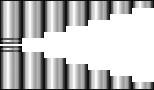
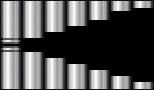
Open and close animations, obj position + scale

diff --git a/ArkanoidReturns/js/Scenes/Level.js b/ArkanoidReturns/js/Scenes/Level.js
@@ -91,6 +91,32 @@ class Level extends Phaser.Scene
     LevelStart() {
         this._levelStartSound.play()
         this.fadein.destroy();
+
+        //TODO: Remove test
+        this.rightOpening0 = new OpeningVerticalPrefab(this, 633, 400, 'openingThingVertical', 'openingThingVerticalOpenAnimation')
+        .setScale(0.71);
+
+        this.rightOpening1 = new OpeningVerticalPrefab(this, 649, 400, 'openingThingVertical', 'openingThingVerticalOpenAnimation')
+        .setScale(0.71);
+
+        this.rightOpening2 = new OpeningVerticalPrefab(this, 665, 400, 'openingThingVertical', 'openingThingVerticalOpenAnimation')
+        .setScale(0.71);
+
+        this.rightOpening3 = new OpeningVerticalPrefab(this, 681, 400, 'openingThingVertical', 'openingThingVerticalOpenAnimation')
+        .setScale(0.71);
+
+        //Close
+        this.rightOpening4 = new OpeningVerticalPrefab(this, 633, 500, 'openingThingVertical', 'openingThingVerticalCloseAnimation')
+        .setScale(0.71);
+
+        this.rightOpening5 = new OpeningVerticalPrefab(this, 649, 500, 'openingThingVertical', 'openingThingVerticalCloseAnimation')
+        .setScale(0.71);
+
+        this.rightOpening6 = new OpeningVerticalPrefab(this, 665, 500, 'openingThingVertical', 'openingThingVerticalCloseAnimation')
+        .setScale(0.71);
+
+        this.rightOpening7 = new OpeningVerticalPrefab(this, 681, 500, 'openingThingVertical', 'openingThingVerticalCloseAnimation')
+        .setScale(0.71);
     }
 
     LoadSounds()
@@ -216,6 +242,15 @@ class Level extends Phaser.Scene
         this._ballPool.getChildren().forEach(ball => {
             ball.MultiplyVelocity(2)
         });
+    }
+
+    BreakEffect() {
+        console.log("Apply break");
+
+        //Create opening thing vertical
+        this.rightOpening = new OpeningVerticalPrefab(this, 680, 400, 'openingThingVertical', 'openingThingVerticalAnimation')
+        .setScale(0.71);
+
     }
 
     UpdateDestroyBlocks() {
@@ -364,6 +399,20 @@ class Level extends Phaser.Scene
                 key: "explosionAnimation",
                 frames: this.anims.generateFrameNumbers("explosion", {start: 0, end: 4}),
                 frameRate: 15
+            });
+
+        this.anims.create(
+            {
+                key: "openingThingVerticalOpenAnimation",
+                frames: this.anims.generateFrameNumbers("openingThingVertical", {start: 0, end: 6}),
+                frameRate: 15,
+            });
+        
+            this.anims.create(
+            {
+                key: "openingThingVerticalCloseAnimation",
+                frames: this.anims.generateFrameNumbers("openingThingVertical", {start: 6, end: 0}),
+                frameRate: 15,
             });
     }
 

diff --git a/ArkanoidReturns/js/Prefabs/Pad.js b/ArkanoidReturns/js/Prefabs/Pad.js
@@ -132,17 +132,21 @@ class Pad extends Phaser.GameObjects.Sprite
     InitPowerUpEffects()
     {
         this.ApplyPowerUpEffect = { 
-            "E": this.Expand, //placeholder
-            "B": this.SpeedDown, //placeholder
-            "L": this.Laser, //placeholder
+            "E": this.Expand,
+            "B": this.ApplyBreak,
+            "L": this.Laser,
             "G": this.SpeedDown, //placeholder
-            "D": this.ApplyDisruption, //placeholder
+            "D": this.ApplyDisruption,
             "M": this.SpeedDown, //placeholder
             "T": this.SpeedDown, //placeholder
             "P": this.ApplyPlayerExtend,
             "S": this.SpeedDown,
             "C": this.Catch,
         };
+    }
+
+    ApplyBreak(_player) {
+        _player.scene.BreakEffect()
     }
 
     Expand(player){

diff --git a/ArkanoidReturns/js/Scenes/Preloader.js b/ArkanoidReturns/js/Scenes/Preloader.js
@@ -73,8 +73,8 @@ class Preloader extends Phaser.Scene
         this.load.image("verticalPipeTileset", "vertical.png");
         this.load.image("horizontalPipeTileset", "horizontal.png");
 
-        this.load.setPath("assets/img/idkwhatthisis");
-        this.load.image("openingThingVertical", "opening_thing_vertical_2.png")
+        this.load.setPath("assets/img/opening_border");
+        this.load.spritesheet("openingThingVertical", "opening_thing_vertical_2.png", {frameWidth:22, frameHeight:90});
 
         this.load.setPath("assets/fonts");
         this.load.bitmapFont("arkanoidFont", "ArkanoidFont.png", "ArkanoidFont.xml");

diff --git a/ArkanoidReturns/index.html b/ArkanoidReturns/index.html
@@ -19,6 +19,7 @@
 		<script src="js/Prefabs/CrystalBlockPrefab.js"></script>
 		<script src="js/Prefabs/PowerupPrefab.js"></script>
 		<script src="js/Prefabs/LaserPrefab.js"></script>
+		<script src="js/Prefabs/OpeningVerticalPrefab.js"></script>	
 		<script src="js/Prefabs/Pad.js"></script>
 		<script src="js/Scenes/Preloader.js"></script>
 		<script src="js/Scenes/MenuScene.js"></script>

diff --git a/ArkanoidReturns/js/Prefabs/CrystalBlockPrefab.js b/ArkanoidReturns/js/Prefabs/CrystalBlockPrefab.js
@@ -8,7 +8,7 @@ class CrystalBlockPrefab extends BlockPrefab
 
     break() {
         //this.scene.SpawnPowerup(this, this.powerUpTypes[this.GetRandomPowerUpType()]);
-        this.scene.SpawnPowerup(this, "E");
+        this.scene.SpawnPowerup(this, "B");
         super.break();
     }
 

diff --git a/ArkanoidReturns/js/Prefabs/OpeningVerticalPrefab.js b/ArkanoidReturns/js/Prefabs/OpeningVerticalPrefab.js
@@ -20,6 +20,7 @@ class OpeningVerticalPrefab extends Phaser.GameObjects.Sprite
     SetColliders()
     {
         //this.scene.physics.add.collider(this, this.walls);
+        this.scene.physics.add.collider(this, this.player);
     }
 
     preUpdate(time, delta)
